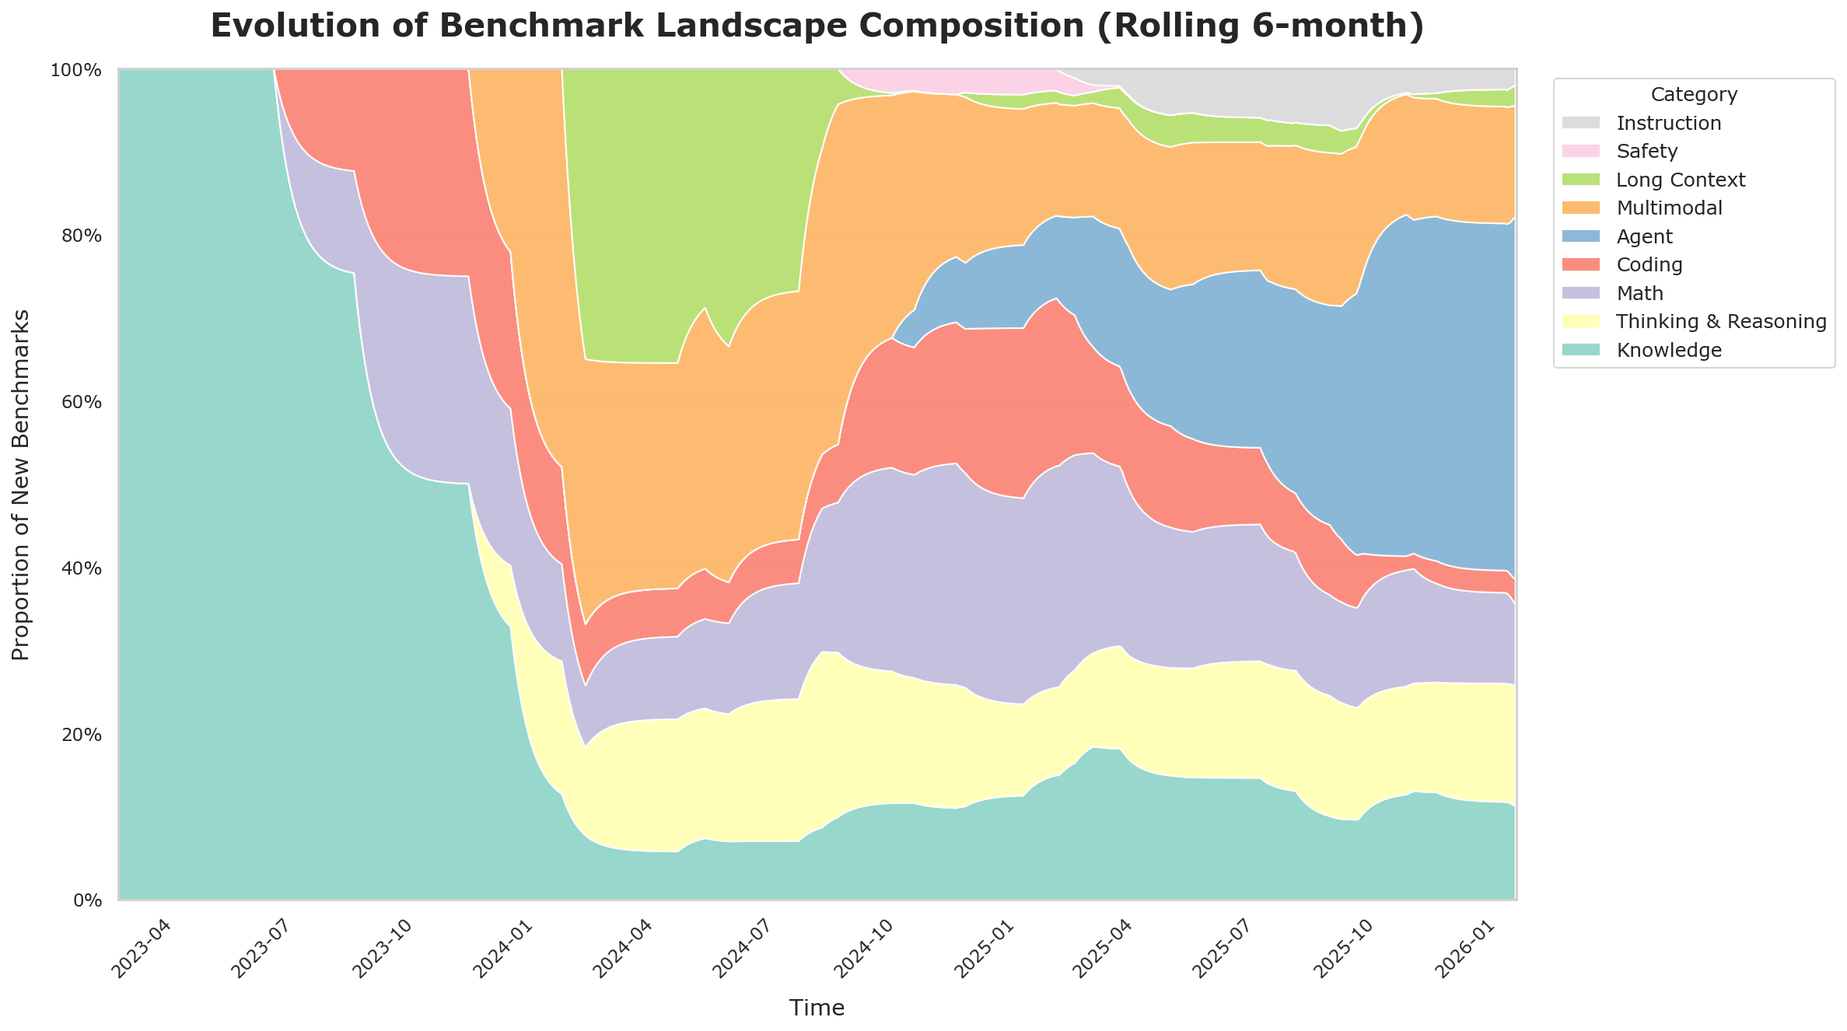
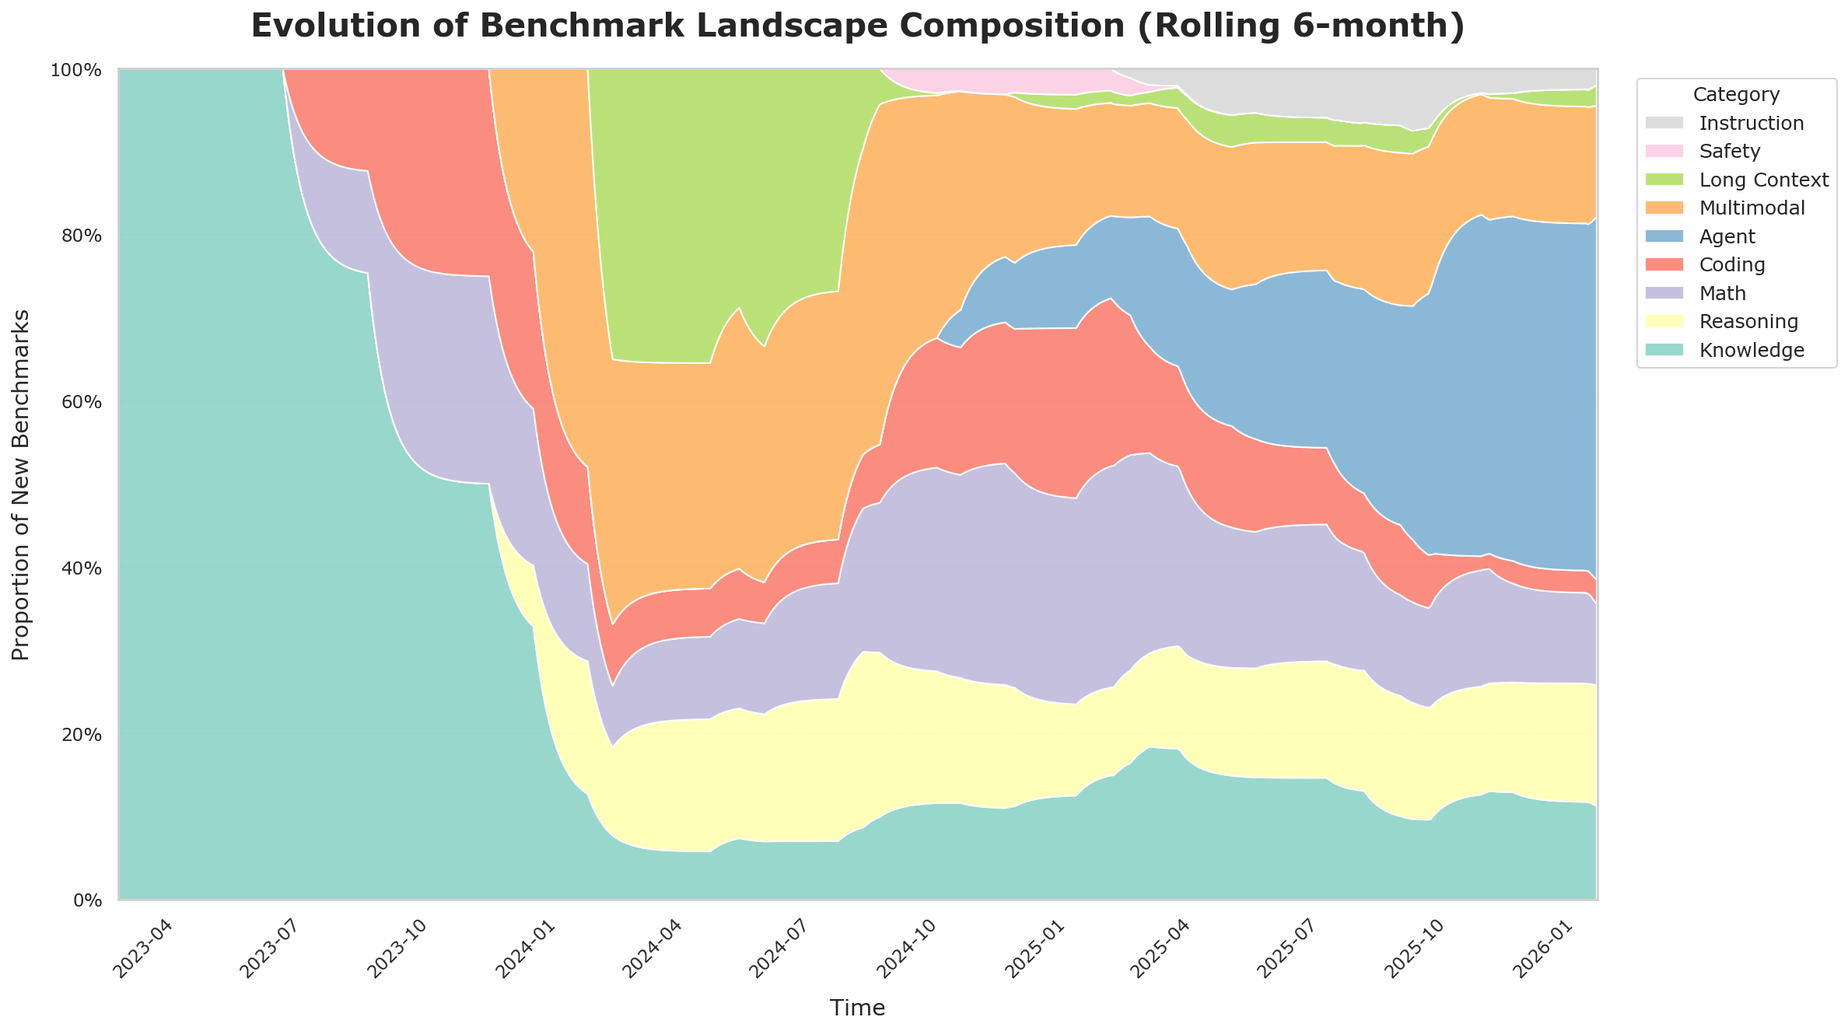
FIX: reasoning expression

diff --git a/scripts/generate_visuals.py b/scripts/generate_visuals.py
@@ -18,7 +18,7 @@ def load_data():
 def process_data(models_df, taxonomy_df):
     # Categories of interest (used for graph structure)
     category_cols = [
-        'Knowledge', 'Thinking & Reasoning', 'Math', 'Coding', 'Agent', 
+        'Knowledge', 'Reasoning', 'Math', 'Coding', 'Agent', 
         'Multimodal', 'Long Context', 'Safety', 'Instruction'
     ]
     

diff --git a/scripts/generate_trend_graph.py b/scripts/generate_trend_graph.py
@@ -41,7 +41,7 @@ def generate_trend_graph():
     
     # Categories of interest
     category_cols = [
-        'Knowledge', 'Thinking & Reasoning', 'Math', 'Coding', 'Agent', 
+        'Knowledge', 'Reasoning', 'Math', 'Coding', 'Agent', 
         'Multimodal', 'Long Context', 'Safety', 'Instruction'
     ]
     

diff --git a/README.md b/README.md
@@ -68,14 +68,14 @@ The following table lists the models and their associated benchmarks.
 ## Benchmark Taxonomy
 Classification of various benchmarks by category.
 
-| Benchmark                  | author(Openai, google, academia, Meta, others)   | Knowledge   | Thinking & Reasoning   | Math   | Coding   | Agent   | Multimodal   | Long Context   | Safety   | Instruction   | Main Category        | Rationale                                                            | Reference Link                                                                            |
+| Benchmark                  | author(Openai, google, academia, Meta, others)   | Knowledge   | Reasoning   | Math   | Coding   | Agent   | Multimodal   | Long Context   | Safety   | Instruction   | Main Category        | Rationale                                                            | Reference Link                                                                            |
 |:---------------------------|:-------------------------------------------------|:------------|:-----------------------|:-------|:---------|:--------|:-------------|:---------------|:---------|:--------------|:---------------------|:---------------------------------------------------------------------|:------------------------------------------------------------------------------------------|
 | ActivityNet                | Academia                                         |             |                        |        |          |         | O            |                |          |               | Multimodal           | Video understanding and action recognition.                          | https://activity-net.org/                                                                 |
 | AI2D                       | Academia                                         |             |                        |        |          |         | O            |                |          |               | Multimodal           | Diagram understanding and reasoning.                                 | https://allenai.org/data/ai2d                                                             |
 | Aider Polyglot             | Others(Aider)                                    |             | O                      |        | O        | O       |              |                |          |               | Coding               | Code editing across multiple languages.                              | https://aider.chat/docs/benchmarks.html                                                   |
 | AIME                       | Academia                                         |             | O                      | O      |          |         |              |                |          |               | Math                 | Competition-level math problems (USA).                               | https://artificialanalysis.ai/models/o1/benchmarks                                        |
-| ARC-AGI                    | Academia                                         |             | O                      |        |          |         |              |                |          |               | Thinking & Reasoning | Fluid intelligence and core reasoning.                               | https://arcprize.org/                                                                     |
-| Big-Bench Hard             | Google                                           | O           | O                      |        |          |         |              |                |          |               | Thinking & Reasoning | Tasks where models previously failed.                                | https://github.com/suzgunmirac/BIG-Bench-Hard                                             |
+| ARC-AGI                    | Academia                                         |             | O                      |        |          |         |              |                |          |               | Reasoning | Fluid intelligence and core reasoning.                               | https://arcprize.org/                                                                     |
+| Big-Bench Hard             | Google                                           | O           | O                      |        |          |         |              |                |          |               | Reasoning | Tasks where models previously failed.                                | https://github.com/suzgunmirac/BIG-Bench-Hard                                             |
 | Bird-SQL                   | Academia                                         |             | O                      |        | O        |         |              |                |          |               | Coding               | Text-to-SQL generation.                                              | https://bird-sql.github.io/                                                               |
 | BrowseComp                 | OpenAI                                           |             | O                      |        |          | O       | O            |                |          |               | Agent                | Ability to use a web browser to complete tasks.                      | https://openai.com/index/browsecomp/                                                      |
 | BrowseComp Long Context    | OpenAI                                           |             | O                      |        |          | O       | O            | O              |          |               | Long Context         | Tasks over large-scale web contexts.                                 | https://openai.com/index/browsecomp/                                                      |
@@ -87,7 +87,7 @@ Classification of various benchmarks by category.
 | CoVoST 2                   | Meta                                             |             |                        |        |          |         | O (Audio)    |                |          |               | Multimodal           | Speech-to-text translation (Audio).                                  | https://github.com/facebookresearch/covost                                                |
 | Cybersecurity CTFs         | Academia                                         | O           | O                      |        | O        |         |              |                | O        |               | Coding               | Coding-based security tasks.                                         | https://openai.com/index/learning-to-reason-with-llms/                                    |
 | DocVQA                     | Academia                                         |             |                        |        |          |         | O            |                |          |               | Multimodal           | Document image understanding.                                        | https://www.docvqa.org/                                                                   |
-| DROP                       | Academia                                         |             | O                      |        |          |         |              |                |          |               | Thinking & Reasoning | Discrete reasoning over text paragraphs.                             | https://allenai.org/data/drop                                                             |
+| DROP                       | Academia                                         |             | O                      |        |          |         |              |                |          |               | Reasoning | Discrete reasoning over text paragraphs.                             | https://allenai.org/data/drop                                                             |
 | EgoSchema                  | Academia                                         |             | O                      |        |          |         | O            |                |          |               | Multimodal           | Long-form first-person video understanding.                          | https://egoschema.github.io/                                                              |
 | ERQA                       | Google                                           | O           | O                      |        |          |         |              |                |          |               | Knowledge            | retrieval and quality of factual QA.                                 | https://arxiv.org/abs/2402.11402                                                          |
 | FACTS Benchmark suite      | Google                                           | O           |                        |        |          |         |              |                |          |               | Knowledge            | Factuality and response grounding.                                   | https://scale.com/leaderboard/facts                                                       |
@@ -96,14 +96,14 @@ Classification of various benchmarks by category.
 | FrontierMath               | Others(Epoch AI, backed by Google)               |             | O                      | O      |          |         |              |                |          |               | Math                 | Extremely difficult advanced math reasoning.                         | https://epoch.ai/frontiermath                                                             |
 | GDPval                     | OpenAI                                           | O           |                        |        |          | O       |              |                |          |               | Agent                | Real-world economically valuable knowledge work.                     | https://openai.com/index/gdpval/                                                          |
 | Global PIQA                | Academia                                         | O           |                        |        |          |         |              |                |          |               | Knowledge            | Culturally diverse commonsense knowledge.                            | https://mrlbenchmarks.github.io/                                                          |
-| GPQA                       | Anthropic, Academia, Cohere                      |             | O                      |        |          |         |              |                |          |               | Thinking & Reasoning | Graduate-level expert-written reasoning.                             | https://github.com/idavidrein/gpqa                                                        |
-| GraphWalks                 | OpenAI                                           |             | O                      |        |          |         |              |                |          |               | Thinking & Reasoning | Logic over graph structures.                                         | https://huggingface.co/datasets/openai/graphwalks                                         |
+| GPQA                       | Anthropic, Academia, Cohere                      |             | O                      |        |          |         |              |                |          |               | Reasoning | Graduate-level expert-written reasoning.                             | https://github.com/idavidrein/gpqa                                                        |
+| GraphWalks                 | OpenAI                                           |             | O                      |        |          |         |              |                |          |               | Reasoning | Logic over graph structures.                                         | https://huggingface.co/datasets/openai/graphwalks                                         |
 | GSM8K                      | OpenAI                                           |             | O                      | O      |          |         |              |                |          |               | Math                 | Grade school math word problems.                                     | https://github.com/openai/grade-school-math                                               |
 | MGSM                       | Google, Academia                                 |             |                        |        |          |         |              |                |          |               | Math                 | Multilingual grade school math problems.                             | https://github.com/google-research/google-research/tree/master/mgsm                       |
 | Healthbench                | OpenAI                                           | O           | O                      |        |          |         |              |                |          |               | Knowledge            | Medical and health domain knowledge.                                 | https://openai.com/index/introducing-healthbench/                                         |
-| HellaSwag                  | Academia                                         |             | O                      |        |          |         |              |                |          |               | Thinking & Reasoning | Commonsense sentence completion.                                     | https://rowanzellers.com/hellaswag/                                                       |
+| HellaSwag                  | Academia                                         |             | O                      |        |          |         |              |                |          |               | Reasoning | Commonsense sentence completion.                                     | https://rowanzellers.com/hellaswag/                                                       |
 | HiddenMath                 | Google                                           |             | O                      | O      |          |         |              |                |          |               | Math                 | Internal holdout math competition set.                               | https://blog.google/technology/ai/google-gemini-ai/                                       |
-| HLE (Humanity's Last Exam) | Academia                                         | O           | O                      | O      |          |         | O            |                |          |               | Thinking & Reasoning | Experts' most difficult reasoning tasks.                             | https://lastexam.ai/                                                                      |
+| HLE (Humanity's Last Exam) | Academia                                         | O           | O                      | O      |          |         | O            |                |          |               | Reasoning | Experts' most difficult reasoning tasks.                             | https://lastexam.ai/                                                                      |
 | HMMT                       | Academia                                         |             | O                      | O      |          |         |              |                |          |               | Math                 | Harvard-MIT Math Tournament problems.                                | https://www.hmmt.org/                                                                     |
 | HumanEval                  | OpenAI                                           |             |                        |        | O        |         |              |                |          |               | Coding               | Basic Python function completion.                                    | https://github.com/openai/human-eval                                                      |
 | IFEval                     | Google                                           |             |                        |        |          |         |              |                |          | O             | Instruction          | Strict formatting and constraint checks.                             | https://github.com/google-research/google-research/tree/master/instruction_following_eval |
@@ -148,10 +148,10 @@ Classification of various benchmarks by category.
 | WebDev Arena               | Others(Epoch AI)                                 |             |                        |        | O        | O       |              |                |          |               | Agent                | Web development tasks requiring execution.                           | https://web.lmarena.ai/                                                                   |
 | Uniform Bar Exam           | Academia                                         | O           |                        |        |          |         |              |                |          |               | Knowledge            |                                                                      |                                                                                           |
 | Biology Olympiad           | Academia                                         | O           |                        |        |          |         |              |                |          |               | Knowledge            |                                                                      |                                                                                           |
-| ARC-AGI-2                  | Academia                                         |             | O                      |        |          |         |              |                |          |               | Thinking & Reasoning | Evaluates abstract reasoning and problem-solving via visual puzzles. | https://arxiv.org/abs/2505.11831                                                          |
+| ARC-AGI-2                  | Academia                                         |             | O                      |        |          |         |              |                |          |               | Reasoning | Evaluates abstract reasoning and problem-solving via visual puzzles. | https://arxiv.org/abs/2505.11831                                                          |
 | BrowseComp-Plus            | Academia                                         | O           | O                      |        |          | O       | O            |                |          |               | Agent                | Evaluation benchmark for deep-research agents.                       | https://arxiv.org/abs/2508.06600                                                          |
 | Finance Agent              | Academia, Others(vals.ai)                        | O           | O                      |        |          |         |              | O              |          |               | Agent                | Real-world financial research tasks using SEC filings.               | https://vals.ai/finance-agent                                                             |
-| GPQA Diamond               | Anthropic, Academia, Others(Cohere)              |             | O                      |        |          |         |              |                |          |               | Thinking & Reasoning | High-quality subset of GPQA with validated answers.                  | https://arxiv.org/abs/2311.12022                                                          |
+| GPQA Diamond               | Anthropic, Academia, Others(Cohere)              |             | O                      |        |          |         |              |                |          |               | Reasoning | High-quality subset of GPQA with validated answers.                  | https://arxiv.org/abs/2311.12022                                                          |
 | GRE                        | Academia, Others(ETS)                            | O           | O                      |        |          |         |              |                |          |               | Knowledge            | Standardized test for graduate school admission.                     | https://www.ets.org/gre                                                                   |
 | MATH 500                   | Academia                                         |             | O                      | O      |          |         |              |                |          |               | Math                 | Challenging 500-problem subset of the MATH dataset.                  | https://arxiv.org/abs/2103.03874                                                          |
 | OSWorld                    | Academia                                         |             |                        |        |          | O       | O            |                |          |               | Agent                | Multimodal agents in real computer environments.                     | https://os-world.github.io                                                                |
@@ -176,7 +176,7 @@ To simplify visualizations, each benchmark is assigned a single **Main Category*
 3. **Math/Coding**: Specialized technical skills.
 4. **Long Context**: Retrieval/reasoning over long sequences.
 5. **Safety/Instruction**: Alignment, safety, or formatting constraints.
-6. **Thinking & Reasoning**: General high-level reasoning.
+6. **Reasoning**: General high-level reasoning.
 7. **Knowledge**: General factual Q&A.
 
 ## Auto-Update

diff --git a/data/base_readme.md b/data/base_readme.md
@@ -46,7 +46,7 @@ To simplify visualizations, each benchmark is assigned a single **Main Category*
 3. **Math/Coding**: Specialized technical skills.
 4. **Long Context**: Retrieval/reasoning over long sequences.
 5. **Safety/Instruction**: Alignment, safety, or formatting constraints.
-6. **Thinking & Reasoning**: General high-level reasoning.
+6. **Reasoning**: General high-level reasoning.
 7. **Knowledge**: General factual Q&A.
 
 ## Auto-Update
